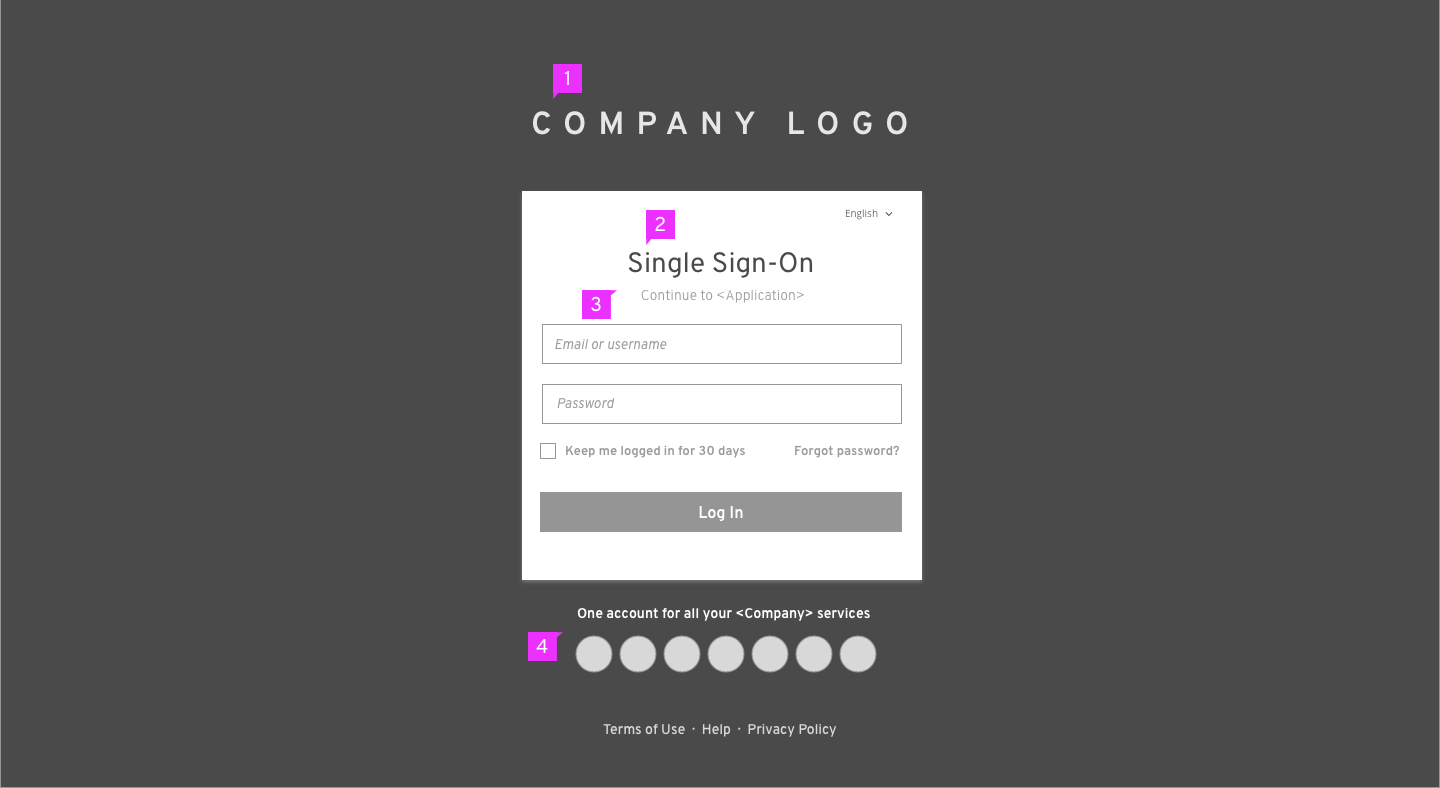
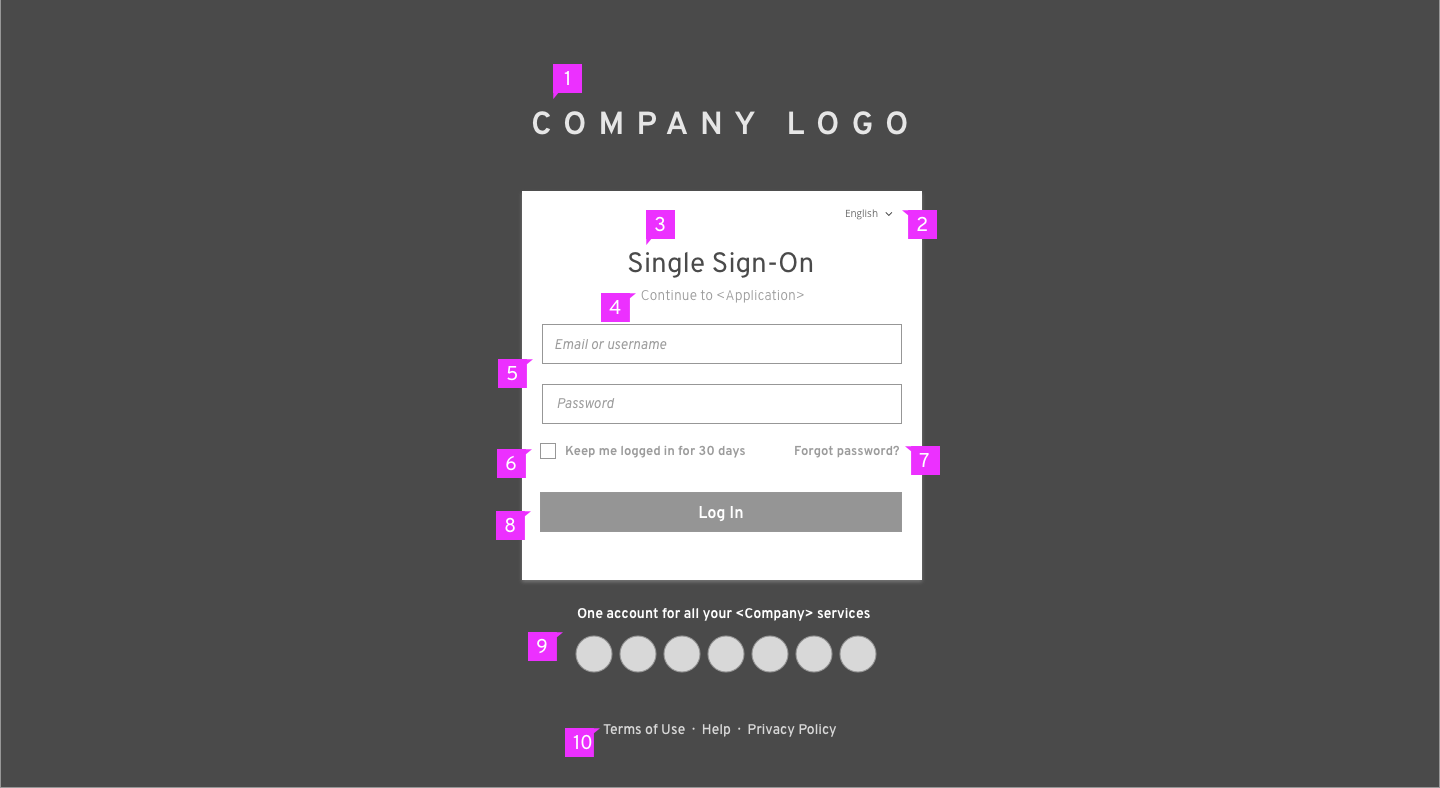
Add basic annotations

diff --git a/pattern-library/application-framework/single-sign-on/design/design.md b/pattern-library/application-framework/single-sign-on/design/design.md
@@ -2,9 +2,15 @@
 
 ![Image of single sign-on](img/SSO-2.png)
 1. **Logotype**: Company logo is located at the top.
-2. **Title**: The title is located at the top of the login card.
-3. **Description**: "Application" is the one user came from. This page will jump back to that application when finishing the login process.
-4. **Supported Services**: All the supported services logo will be displayed at the bottom.
+2. **Language Selector** (optional): The language selector is located in the top right of the login card.
+3. **Title**: The title is located at the top of the login card.
+4. **Description**: "Application" is the one user came from. This page will jump back to that application when finishing the login process.
+5. **Required Fields**: Username and password are the required fields while additional fields are optional. Some applications may require additional fields such as a specific server or geo-location. When additional fields are required, they can appear underneath the password field. The login card will expand to accommodate the additional fields. The additional fields order will be addressed on a case-by-case basis, but they should sit between the “Password field” and the “checkbox”. Try to limit the number of the fields to less than five. Also, you may use progressive disclosure if the field value have dependency on the previous relevant field.
+6. **Checkbox** (optional): Checkbox is located under the Required fields. It can be labeled varied texts depending on the needs of different applications. Checkbox labels should be capitalized according to [Terminology and Wording Style Guide](http://www.patternfly.org/styles/terminology-and-wording/).
+7. **Help Link** (optional): It is a link for users to recover their password.
+8. **Login Button**: The button should be labeled "Log In". See the [Terminology and Wording Style Guide](http://www.patternfly.org/styles/terminology-and-wording/) for more information.
+9. **Supported Services**: All the supported services logo will be displayed at the bottom.
+10. **Links** (optional): You may add any additional links to pages where the user can get more information or help.
 
 ## Identity First
 User can also be authenticated step by step when login with SSO. The login process are similar to [Multi-Factor Login](https://www.patternfly.org/pattern-library/application-framework/multi-factor-login/#).
